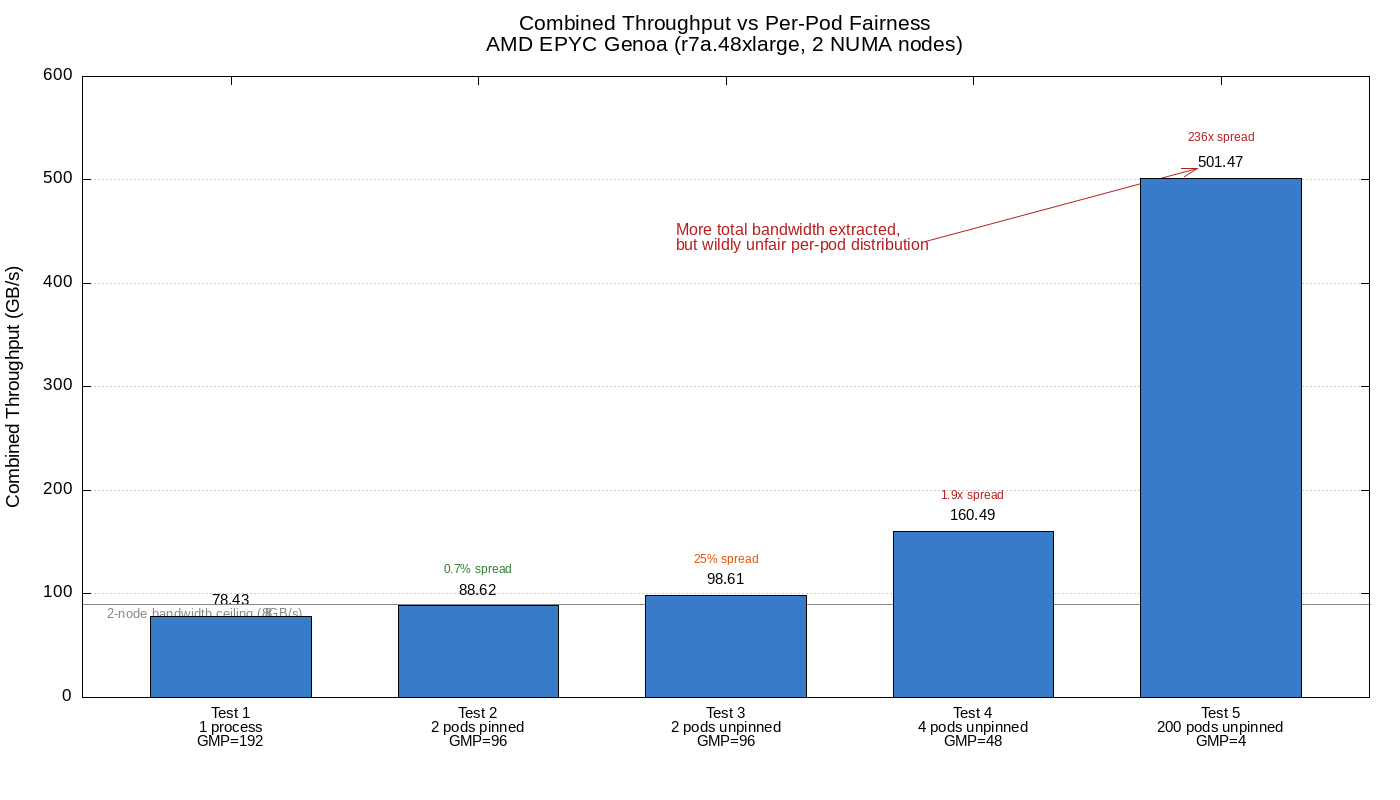
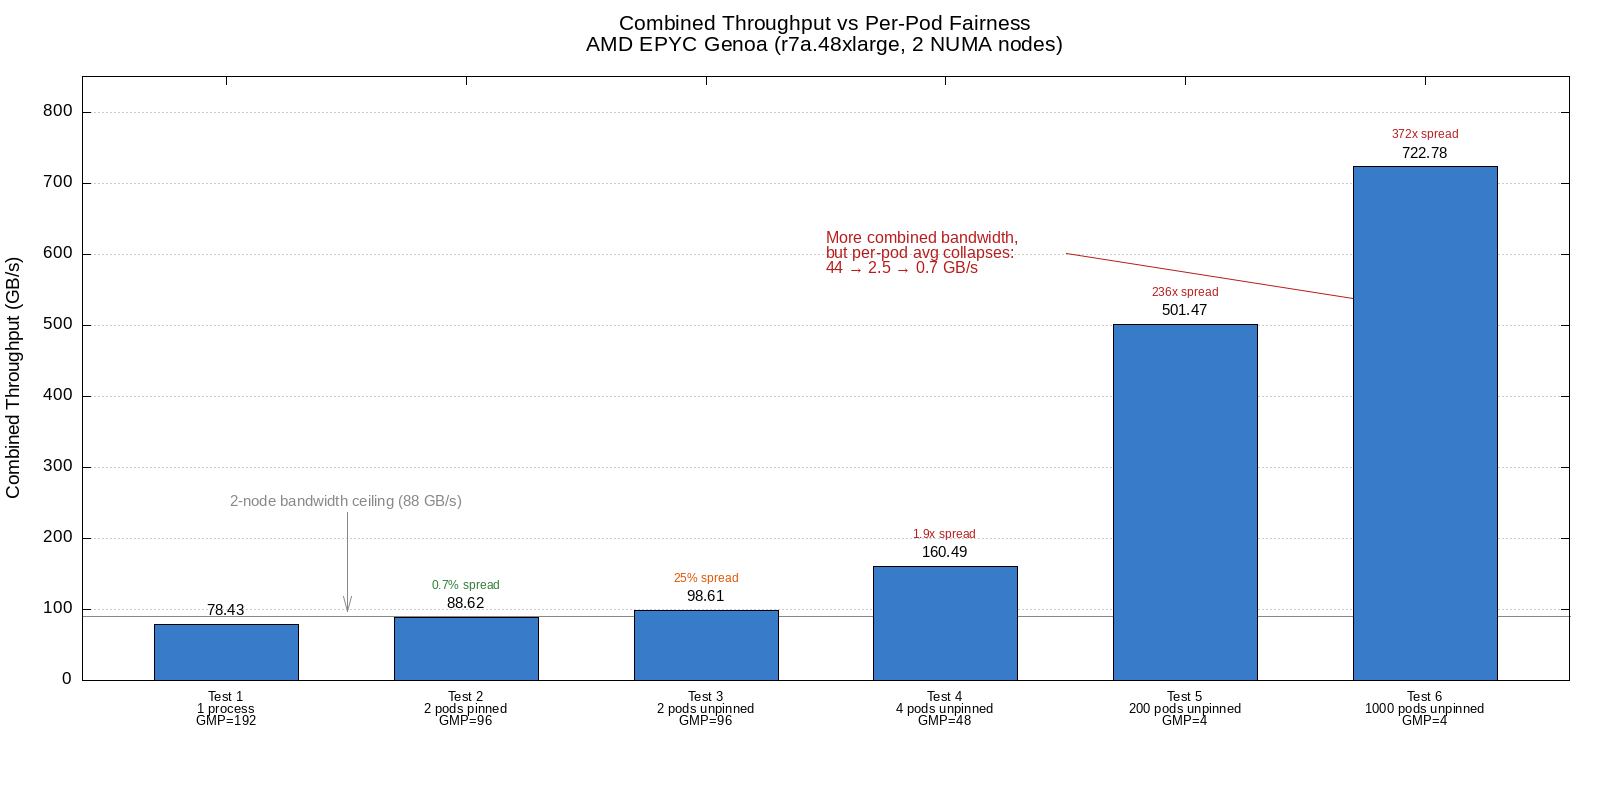
add 1000 pods unpinned

diff --git a/README.md b/README.md
@@ -20,6 +20,7 @@
 | 3 | 2 pods, unpinned | 96 | 98.61 |
 | 4 | 4 pods, unpinned | 48 | 160.49 |
 | 5 | 200 pods, unpinned | 4 | 501.47 |
+| 6 | 1000 pods, unpinned | 4 | 722.78 |
 
 ![Combined Throughput vs Per-Pod Fairness](combined.png)
 
@@ -32,8 +33,9 @@ The combined throughput chart reveals a paradox: splitting work across more proc
 - **Test 3** (2 pods unpinned, GOMAXPROCS=96): 98 GB/s total, but with a 25% gap between the two pods. Without pinning, the OS may schedule both pods' threads unevenly across NUMA nodes, giving one pod more local memory access than the other.
 - **Test 4** (4 pods unpinned, GOMAXPROCS=48): 160 GB/s — nearly double the 2-node ceiling of ~88 GB/s. With lower GOMAXPROCS per pod, each Go runtime has fewer P's competing for cache and memory bus, reducing per-process saturation. But fairness degrades to a 1.9x spread between identical pods.
 - **Test 5** (200 pods unpinned, GOMAXPROCS=4): 501 GB/s combined — over 6x the single-process result. Each pod's 4 P's barely touch the memory bus individually, so aggregate bandwidth scales with pod count. However, fairness collapses completely: a 236x spread between the best and worst pod. Most pods get near-zero throughput while a lucky few monopolize bandwidth.
+- **Test 6** (1000 pods unpinned, GOMAXPROCS=4): 722 GB/s combined with 50 iterations per pod. At 20:1 CPU oversubscription (4,000 P's for 192 CPUs), the node is effectively saturated. Average throughput drops to 0.72 GB/s — less than 1/6th of single-core baseline. 80% of pods fall below 1 GB/s and even the best pod only reaches 14.9 GB/s. The longer run duration makes things worse: sustained contention ensures every pod gets churned across NUMA boundaries with perpetually cold caches.
 
-The 2-node bandwidth ceiling (~88 GB/s) is exceeded in Tests 3–5 because the benchmark measures *reported* throughput — each pod independently times its own memory reads. When 200 pods each run small buffers (16 MB), hot data can reside in L3 cache for lucky pods, yielding throughput numbers that exceed DRAM bandwidth. The unlucky pods, stuck with cold caches and remote NUMA memory, get almost nothing.
+The 2-node bandwidth ceiling (~88 GB/s) is exceeded in Tests 3–6 because the benchmark measures *reported* throughput — each pod independently times its own memory reads. When pods each run small buffers (16 MB), hot data can reside in L3 cache for lucky pods, yielding throughput numbers that exceed DRAM bandwidth. The unlucky pods, stuck with cold caches and remote NUMA memory, get almost nothing.
 
 ![NUMA-Pinned vs Unpinned Pod Performance](pods.png)
 
@@ -74,6 +76,34 @@ Simulating real K8s pod density with 200 concurrent processes (GOMAXPROCS=4 each
 This is the **NUMA performance lottery** at scale. ~75% of pods performed below the single-core baseline of 4.40 GB/s. The bottom panel of the chart above shows the sorted per-pod throughput — the vast majority of pods are clustered near zero while a few "lucky" pods get near-full NUMA node bandwidth.
 
 With 200 pods fighting for 192 CPUs, the problems compound: CPU oversubscription causes constant context switching (flushing L1/L2/TLB caches), each pod's Go runtime has its own scheduler creating 800 P's competing for 192 CPUs, and memory pressure forces the kernel to allocate pages on remote NUMA nodes.
+
+### Test 6: 1000 Pods Unpinned (Node Saturation)
+
+Pushing the node to its limits with 1000 concurrent processes (GOMAXPROCS=4 each, 16MB buffer, 50 iterations). This creates 4,000 P's competing for 192 CPUs — a 20:1 oversubscription ratio.
+
+- **Min**: 0.04 GB/s
+- **Max**: 14.90 GB/s
+- **Average**: 0.72 GB/s
+- **Spread**: 372x (min to max)
+- **Below 1 GB/s**: 797 pods (79.7%)
+- **Combined**: 722.78 GB/s
+
+**Throughput distribution:**
+
+| Range | Pods | Percent |
+|-------|------|---------|
+| 0.0–0.1 GB/s | 134 | 13.4% |
+| 0.1–0.5 GB/s | 506 | 50.6% |
+| 0.5–1.0 GB/s | 157 | 15.7% |
+| 1.0–2.0 GB/s | 121 | 12.1% |
+| 2.0–5.0 GB/s | 63 | 6.3% |
+| 5.0–10.0 GB/s | 16 | 1.6% |
+| 10.0–20.0 GB/s | 3 | 0.3% |
+| 20.0+ GB/s | 0 | 0.0% |
+
+At this density, the node is effectively unusable for memory-bandwidth-sensitive workloads. **64% of pods are stuck below 0.5 GB/s** — less than 1/9th of single-core baseline performance. Even the "luckiest" pod only reaches 14.9 GB/s, down from 44.96 GB/s in the 200-pod test, because sustained contention degrades everyone over time.
+
+The longer duration (50 iterations vs 5) makes the results worse, not better. With a short burst, some pods finish before the scheduler has time to migrate their goroutines across NUMA boundaries. With sustained load, every pod eventually gets churned across nodes, caches are perpetually cold, and the memory bus is fully saturated by cross-NUMA traffic. Nobody wins on an overloaded NUMA node — the floor stays the same while the ceiling collapses.
 
 ---
 
